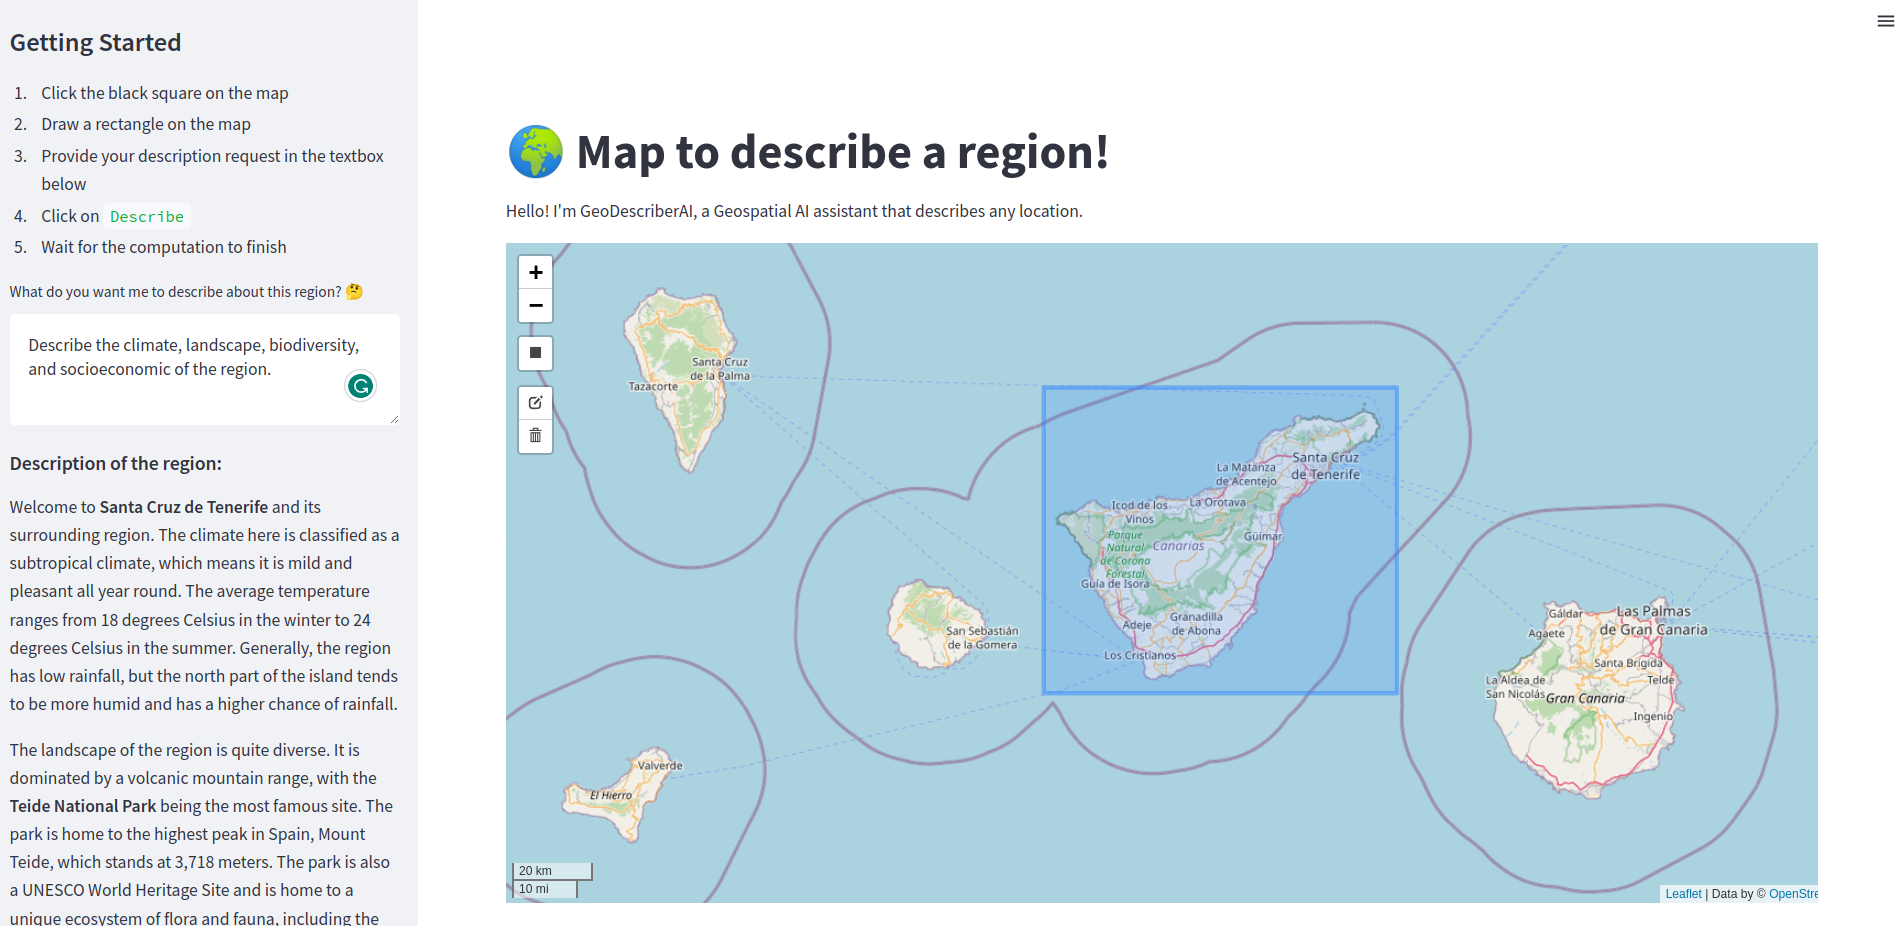
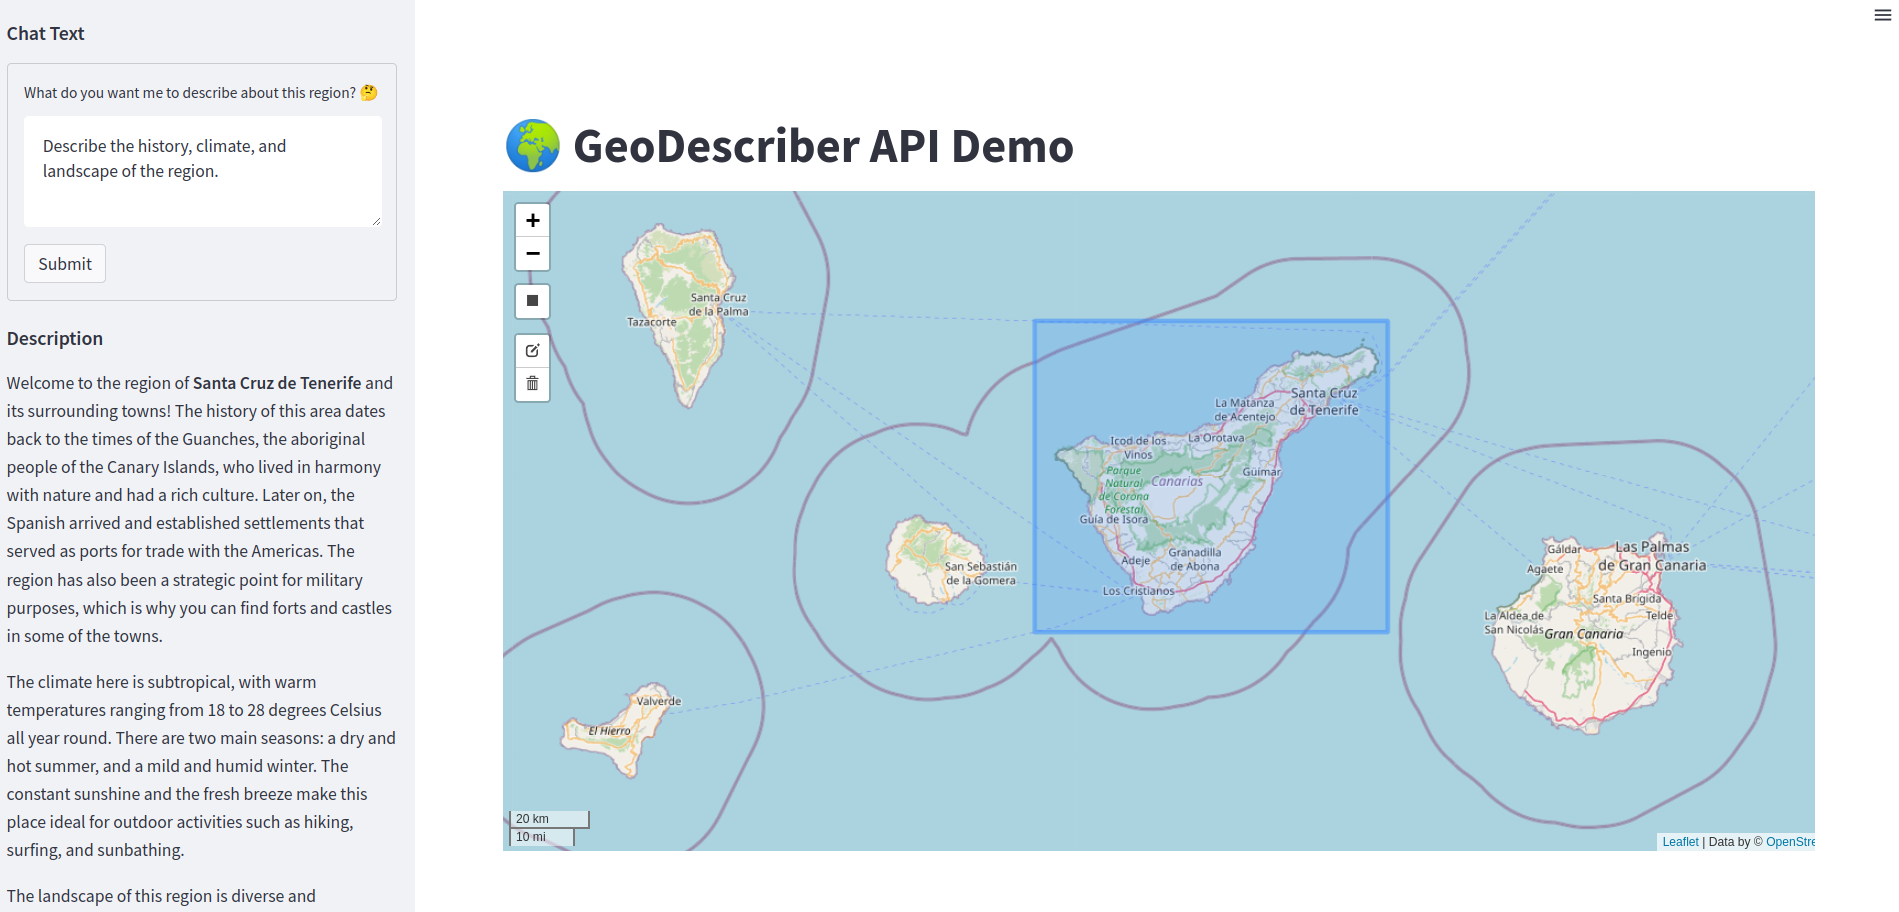
Create streamlit app based on the API

diff --git a/app.py b/app.py
@@ -1,31 +1,60 @@
-import json
-
-import tiktoken
+import requests
 import streamlit as st
+from shapely import Polygon
+from pydantic import BaseModel
 from streamlit_folium import st_folium
 
 from geo_describer_ai.map import FoliumMap
-from geo_describer_ai.utils import get_bbox
-from geo_describer_ai.apis import get_overpass_api_response, get_openai_api_response
-from geo_describer_ai.verification import selected_bbox_in_boundary, selected_bbox_too_large
-
+from geo_describer_ai.verification import selected_bbox_too_large, selected_bbox_in_boundary
 
 MAP_CENTER = [25.0, 55.0]
 MAP_ZOOM = 3
 MAX_ALLOWED_AREA_SIZE = 25.0
-BTN_LABEL = "Describe"
+BTN_LABEL = "Submit"
+API_BASE_URL = "http://localhost:8000"
 
-if __name__ == "__main__":
+
+# Define the models for the input data:
+class Bbox(BaseModel):
+    min_lon: float
+    min_lat: float
+    max_lon: float
+    max_lat: float
+
+
+class Chat(BaseModel):
+    text: str
+
+
+def display_context_data(bbox_data):
+    st.subheader("Context Data")
+    response = requests.post(f"{API_BASE_URL}/context", json=bbox_data.dict())
+    if response.status_code == 200:
+        context_data = response.json()
+        st.json(context_data)
+    else:
+        st.error("Error retrieving context data. Please try again.")
+
+
+def display_description(bbox_data, chat_data):
+    st.subheader("Description")
+    response = requests.post(f"{API_BASE_URL}/description", json={"bbox": bbox_data.dict(), "chat": chat_data.dict()})
+    if response.status_code == 200:
+        description = response.json()["description"]
+        st.write(description)
+    else:
+        st.error("Error retrieving description. Please try again.")
+
+
+# Create the Streamlit app and define the main code:
+def main():
     st.set_page_config(
         page_title="mapa",
         page_icon=":earth_africa:",
         layout="wide",
         initial_sidebar_state="expanded"
     )
-    st.title(":earth_africa: Map to describe a region!")
-
-    st.write(
-        """Hello! I'm GeoDescriberAI, a Geospatial AI assistant that describes any location.""")
+    st.title(":earth_africa: GeoDescriber API Demo")
 
     m = FoliumMap(center=MAP_CENTER, zoom=MAP_ZOOM)
 
@@ -38,44 +67,34 @@ if __name__ == "__main__":
                 # get latest modified drawing
                 geojson = output["last_active_drawing"]
 
-
     # ensure progress bar resides at top of sidebar and is invisible initially
     progress_bar = st.sidebar.progress(0)
     progress_bar.empty()
 
     # Getting Started container
     with st.sidebar.container():
+        # Getting started
+        st.subheader("Getting Started")
         st.markdown(
             f"""
-                # Getting Started
-                1. Click the black square on the map
-                2. Draw a rectangle on the map
-                3. Provide your description request in the textbox below
-                4. Click on <kbd>{BTN_LABEL}</kbd>
-                5. Wait for the computation to finish
-                """,
+                        1. Click the black square on the map
+                        2. Draw a rectangle on the map
+                        3. Provide your description request in the textbox below
+                        4. Click on <kbd>{BTN_LABEL}</kbd>
+                        5. Wait for the computation to finish
+                        """,
             unsafe_allow_html=True,
         )
 
-        # Create input text area
-        chat = st.text_area("What do you want me to describe about this region? :thinking_face:")
+        # Input form for chat text
+        st.subheader("Chat Text")
+        chat_form = st.form(key="chat_form")
+        chat_text = chat_form.text_area("What do you want me to describe about this region? :thinking_face:",
+                                        value="Describe the history, climate, and landscape of the region.")
+        submit_chat = chat_form.form_submit_button("Submit", disabled=False if geojson is not None else True)
 
-        # Create an empty container for the description
-        # Display description of the region
-        st.markdown(
-            f"""
-                            ### Description of the region:
-                            """,
-            unsafe_allow_html=True,
-        )
-
-        text_container = st.empty()
-
-        # Add the button and its callback
-        if st.button(BTN_LABEL,
-                     key="describe",
-                     disabled=False if geojson is not None else True):
-
+        # Display results upon submission
+        if geojson or submit_chat:
             # Check if the geometry is valid
             geometry = geojson['geometry']
             if selected_bbox_too_large(geometry, threshold=MAX_ALLOWED_AREA_SIZE):
@@ -90,32 +109,22 @@ if __name__ == "__main__":
                     "Ensure to use the initial center view of the world for drawing your rectangle."
                 )
             else:
-                # Get the bbox
-                bbox = get_bbox(geojson)
+                # Create a Shapely polygon from the coordinates
+                poly = Polygon(geojson['geometry']['coordinates'][0])
+                # Get the bbox coordinates using the bounds() method
+                min_lon, min_lat, max_lon, max_lat = poly.bounds
 
-                # Get the Overpass API response containing the main locations
-                overpass_response = get_overpass_api_response(bbox)
+                bbox_data = Bbox(min_lon=min_lon, min_lat=min_lat, max_lon=max_lon, max_lat=max_lat)
+                chat_data = Chat(text=chat_text)
 
-                # Check context length tokens
-                # Create a tokenizer
-                ENC = tiktoken.encoding_for_model("text-davinci-003")
-                context_length = len(ENC.encode(f"""contextual data: {json.dumps(overpass_response)}""")) - 589
-
-                if context_length > 4097:
-                    st.sidebar.warning(
-                        "The API response is too long for me to read. Please select a smaller region."
-                    )
-                else:
-                    # Get the OpenAI API response containing the description
-                    description = get_openai_api_response(data=overpass_response, chat=chat)
-
-                    text_container.markdown(
-                        f"""
-                        {description}
-                        """,
-                        unsafe_allow_html=True,
-                    )
-
+                if geojson and not submit_chat:
+                    display_context_data(bbox_data)
+                if submit_chat:
+                    display_description(bbox_data, chat_data)
                     # Display success message in the sidebar
                     st.sidebar.success("Successfully created description!")
+
+
+if __name__ == "__main__":
+    main()
 

diff --git a/README.md b/README.md
@@ -1,7 +1,9 @@
 # GeoDescriberAI
 
-This repository contains a [Streamlit](https://streamlit.io/) APP and an [FastAPI](https://fastapi.tiangolo.com/) API that generates a description of a region based on a bounding box and a description request. 
+This repository contains a [FastAPI](https://fastapi.tiangolo.com/) API and [Streamlit](https://streamlit.io/) APP that generates a description of a region based on a bounding box and a description request. 
 It uses the [Overpass API](https://wiki.openstreetmap.org/wiki/Overpass_API) and the [OpenAI API](https://openai.com/blog/openai-api) for getting contextual data and geodescribing the region, respectively.
+
+![](images/demo.png)
 
 ## Installation
 
@@ -18,25 +20,7 @@ It uses the [Overpass API](https://wiki.openstreetmap.org/wiki/Overpass_API) and
 
 ## Usage
 
-### APP
-
-To run the streamlit app, use the following command:
-
-```
-streamlit run app.py
-```
-
-This will launch the app in your default web browser.
-
-1. Click the black square on the map
-2. Draw a rectangle on the map
-3. Provide your description request in the textbox below
-4. Click on `Describe`
-5. Wait for the computation to finish
-
-![](images/demo.png)
-
-### API
+### FastAPI
 
 This is a FastAPI-based API that generates a description of a region based on a bounding box (bbox) and a description request (chat). 
 It utilizes external APIs for obtaining context data and generating descriptions.
@@ -101,6 +85,22 @@ uvicorn main:app --reload
          "description": "Welcome to the region of **Tenerife**, a beautiful island located in the Atlantic Ocean and part of the Canary Islands. The history of Tenerife dates back to the 15th century when the island was conquered by Spain. The island's indigenous people, known as Guanches, were the first to inhabit the island before the Spanish conquest. Today, the island is a popular tourist destination, attracting millions of visitors every year.\n\nThe climate of Tenerife is subtropical, with mild temperatures throughout the year. The island has a warm and dry climate, with temperatures ranging from 20°C to 30°C in the summer months and 15°C to 25°C in the winter months. The island's climate is influenced by the trade winds, which bring cool breezes from the Atlantic Ocean.\n\nThe landscape of Tenerife is diverse and unique, with a mix of volcanic and coastal features. The island is home to one of the world's largest volcanoes, **Teide**, which is also a UNESCO World Heritage Site. The volcanic landscape of Tenerife is characterized by steep cliffs, deep gorges, and rugged terrain. The island also has a beautiful coastline, with sandy beaches and crystal-clear waters. Tenerife is also home to two protected areas, the **Parque Rural de Teno** and the **Parque Rural de Anaga**, which are rich in biodiversity and offer stunning views of the island's landscape.\n\nIn summary, Tenerife is a region with a rich history, a subtropical climate, and a diverse landscape that includes volcanic mountains, rugged terrain, and beautiful coastlines."
       }
       ```
+
+### Streamlit APP
+
+After starting the FastAPI server run the Streamlit app, use the following command:
+
+```
+streamlit run app.py
+```
+
+This will launch the app in your default web browser.
+
+1. Click the black square on the map
+2. Draw a rectangle on the map
+3. Provide your description request in the textbox below
+4. Click on `Submit`
+5. Wait for the computation to finish
    
 ## License
 This project is licensed under the [MIT License](LICENSE).
